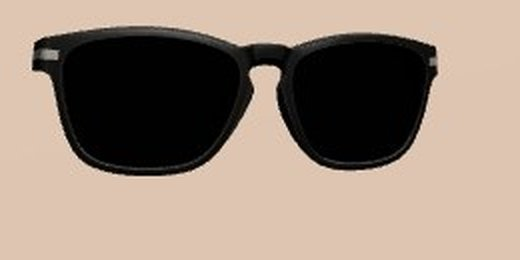
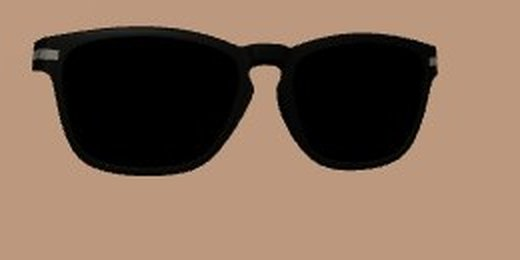
TORINOX カラー確認: Amazonと同じく反射・映り込みなしで表示、ミラーのツヤ層を外した最終データに差し替え (2026-10-23d)

diff --git a/tryon-torinox-x7k2/colors.html b/tryon-torinox-x7k2/colors.html
@@ -85,7 +85,7 @@
   <div id="grades"></div>
   <div class="note">
     <b>見え方について</b><br>
-    ・3Dの背景は切り替えられます。「肌色」はレンズ越しに顔が透ける試着に近い見え方です。<br>
+    ・3DはAmazonの試着と同じく、反射・映り込みなしで描いています。背景は切り替えられます。「肌色」はレンズ越しに顔が透ける試着に近い見え方です。<br>
     ・ミラーは、Amazonの試着が反射を描かないため、海外Amazonで試着に対応している他社のミラーレンズと同じく「色付きのグラデーションレンズ」で表現しています（商品写真のミラーの色を、上下のグラデーション＋斜めの明るい帯としてレンズの色に入れたもの）。<br>
     ・調光は、かける人の右のレンズを反応前（明るい）、左を反応後（暗い）にしています（正面から見ると明るいレンズが向かって左）。<br>
     ・「入稿済み」はAmazonに入稿済みのモデル（ARQ＝2026-10-06版、MOTION＝2026-10-15版）そのものです。
@@ -104,10 +104,9 @@ import * as THREE from 'three';
 import { GLTFLoader } from 'three/addons/loaders/GLTFLoader.js';
 import { DRACOLoader } from 'three/addons/loaders/DRACOLoader.js';
 import { OrbitControls } from 'three/addons/controls/OrbitControls.js';
-import { RoomEnvironment } from 'three/addons/environments/RoomEnvironment.js';
 
 const $ = id => document.getElementById(id);
-const CV = '20261023b';
+const CV = '20261023d';
 const MODELS = {
   A: { name:'ARQ', shape:'角型', thumb:'ARQ_BASE' },
   C: { name:'MOTION', shape:'角型', thumb:'MO_BASE' },
@@ -139,9 +138,11 @@ const BGS = [ ['肌色', 0xd9b49c], ['白', 0xf2f2f2], ['グレー', 0x8a8a8a], 
 const canvas = $('cv');
 const renderer = new THREE.WebGLRenderer({ canvas, antialias:true });
 renderer.outputColorSpace = THREE.SRGBColorSpace;
-renderer.toneMapping = THREE.ACESFilmicToneMapping; renderer.toneMappingExposure = 1.2;
+renderer.toneMapping = THREE.ACESFilmicToneMapping; renderer.toneMappingExposure = 1.0;
 const scene = new THREE.Scene();
-scene.environment = new THREE.PMREMGenerator(renderer).fromScene(new RoomEnvironment(), 0.02).texture;
+// Amazonの試着は反射を描かない（海外Amazonの他社商品で確認）→ 周囲の映り込み（環境マップ）は使わず、普通の照明だけで描く
+scene.add(new THREE.HemisphereLight(0xffffff, 0x8a8a8a, 1.6));
+const keyL = new THREE.DirectionalLight(0xffffff, 1.1); keyL.position.set(-0.3, 0.6, 1); scene.add(keyL);
 scene.background = new THREE.Color(BGS[0][1]);
 const camera = new THREE.PerspectiveCamera(28, 4/3, 0.005, 10);
 camera.position.set(-0.17, 0.05, 0.19);   // 商品写真と同じ斜め前（左前・やや上）から
@@ -165,6 +166,8 @@ function load(v){
     if (id !== reqId) return;
     if (current) scene.remove(current);
     current = g.scene; scene.add(current);
+    // レンズの映り込み・ハイライトを消す（Amazonの見え方に合わせる）
+    current.traverse(o => { if (o.isMesh && (o.material.name || '').startsWith('LensMat')) { o.material.specularIntensity = 0; o.material.clearcoat = 0; o.material.needsUpdate = true; } });
     $('load').style.display = 'none';
   }, undefined, () => { $('load').textContent = '読み込みに失敗しました'; });
 }
